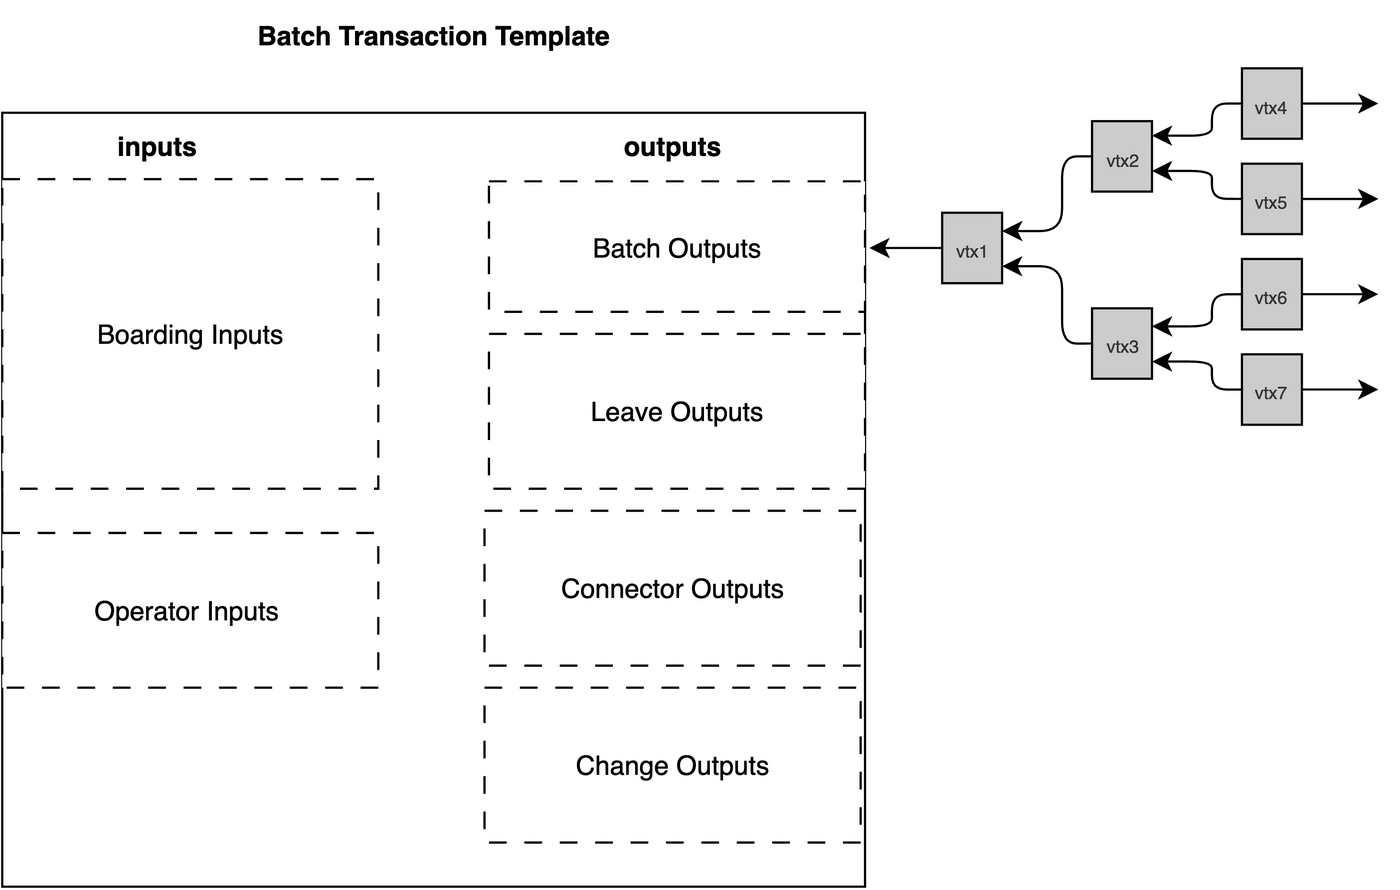
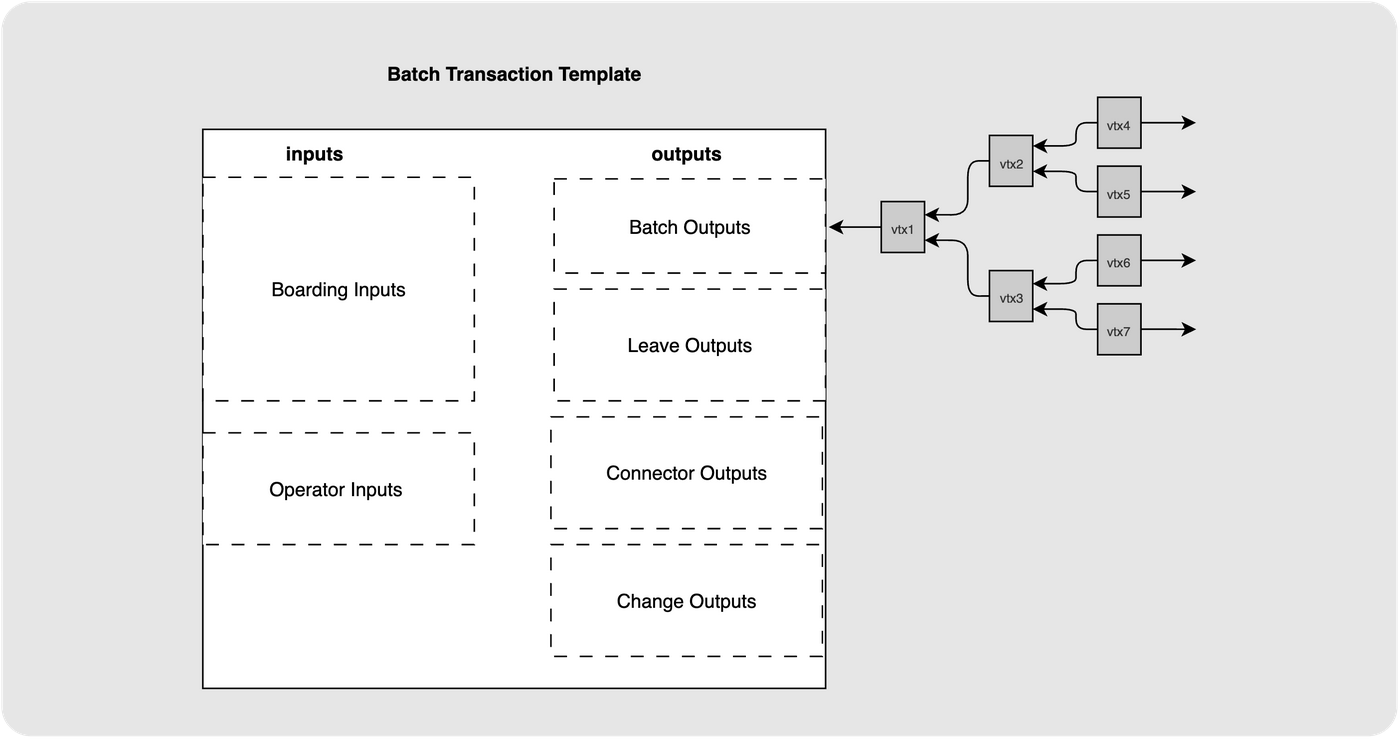
content: reposition the VTXO set diagram and frame the batch tx template
Moves the VTXO set diagram out of the middle of the connector tree explanation
and into the Refreshing bullet, next to the sentence about batch expiry that it
actually illustrates.

Adds the missing backing block to the batch transaction template, which was the
last diagram in the folder without one.

diff --git a/content/posts/ark-forfeits-and-connectors.md b/content/posts/ark-forfeits-and-connectors.md
@@ -46,6 +46,12 @@ participating in a round.
   Swap which involves giving up (forfeiting) ownership of their older VTXO in
   exchange for a new one in a new Batch.
 
+  ![](/ark/vtxo-set-across-batches.png#center)
+
+  There is really just one VTXO set, spread across whichever batches happen to be
+  alive at the time. Each batch runs to its own expiry, so `batch_0` here has
+  already expired and been swept while `batch_1` and `batch_2` are still going.
+
   ![](/ark/refreshing-a-vtxo.png#center)
 
 As you can see, both of these actions involve forfeiting a VTXO in exchange for
@@ -164,12 +170,6 @@ and so no connector tree, or no new VTXOs (everyone is leaving) and so no VTXT.
 And the VTXOs being forfeited will generally be scattered across many different
 older batches: the chances of every VTXO in one tree being refreshed at the same
 time are slim, and nothing about the protocol requires it.
-
-![](/ark/vtxo-set-across-batches.png#center)
-
-There is really just one VTXO set, spread across whichever batches happen to be
-alive at the time. Each batch runs to its own expiry, so `batch_0` here has already
-expired and been swept while `batch_1` and `batch_2` are still going.
 
 Let's make that concrete. Say four users have each requested a forfeit in this
 batch. The operator builds them a connector tree with one leaf apiece:
